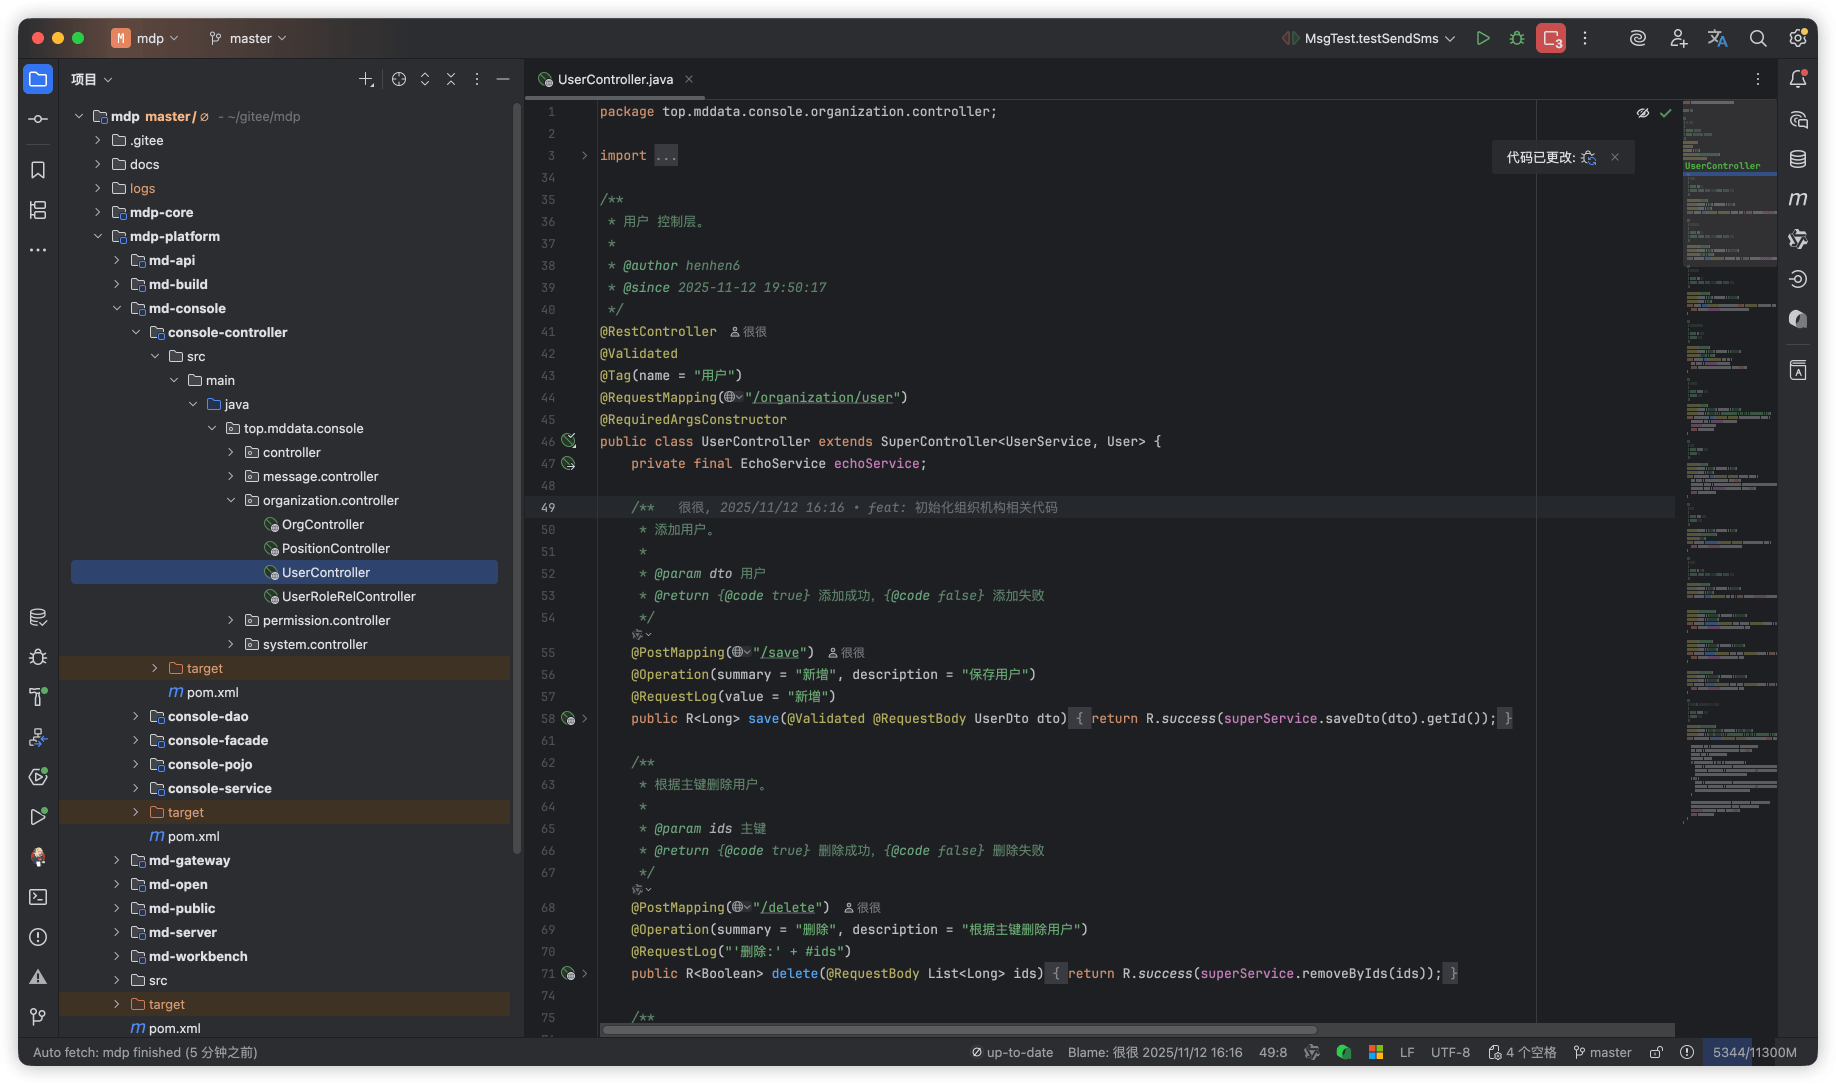
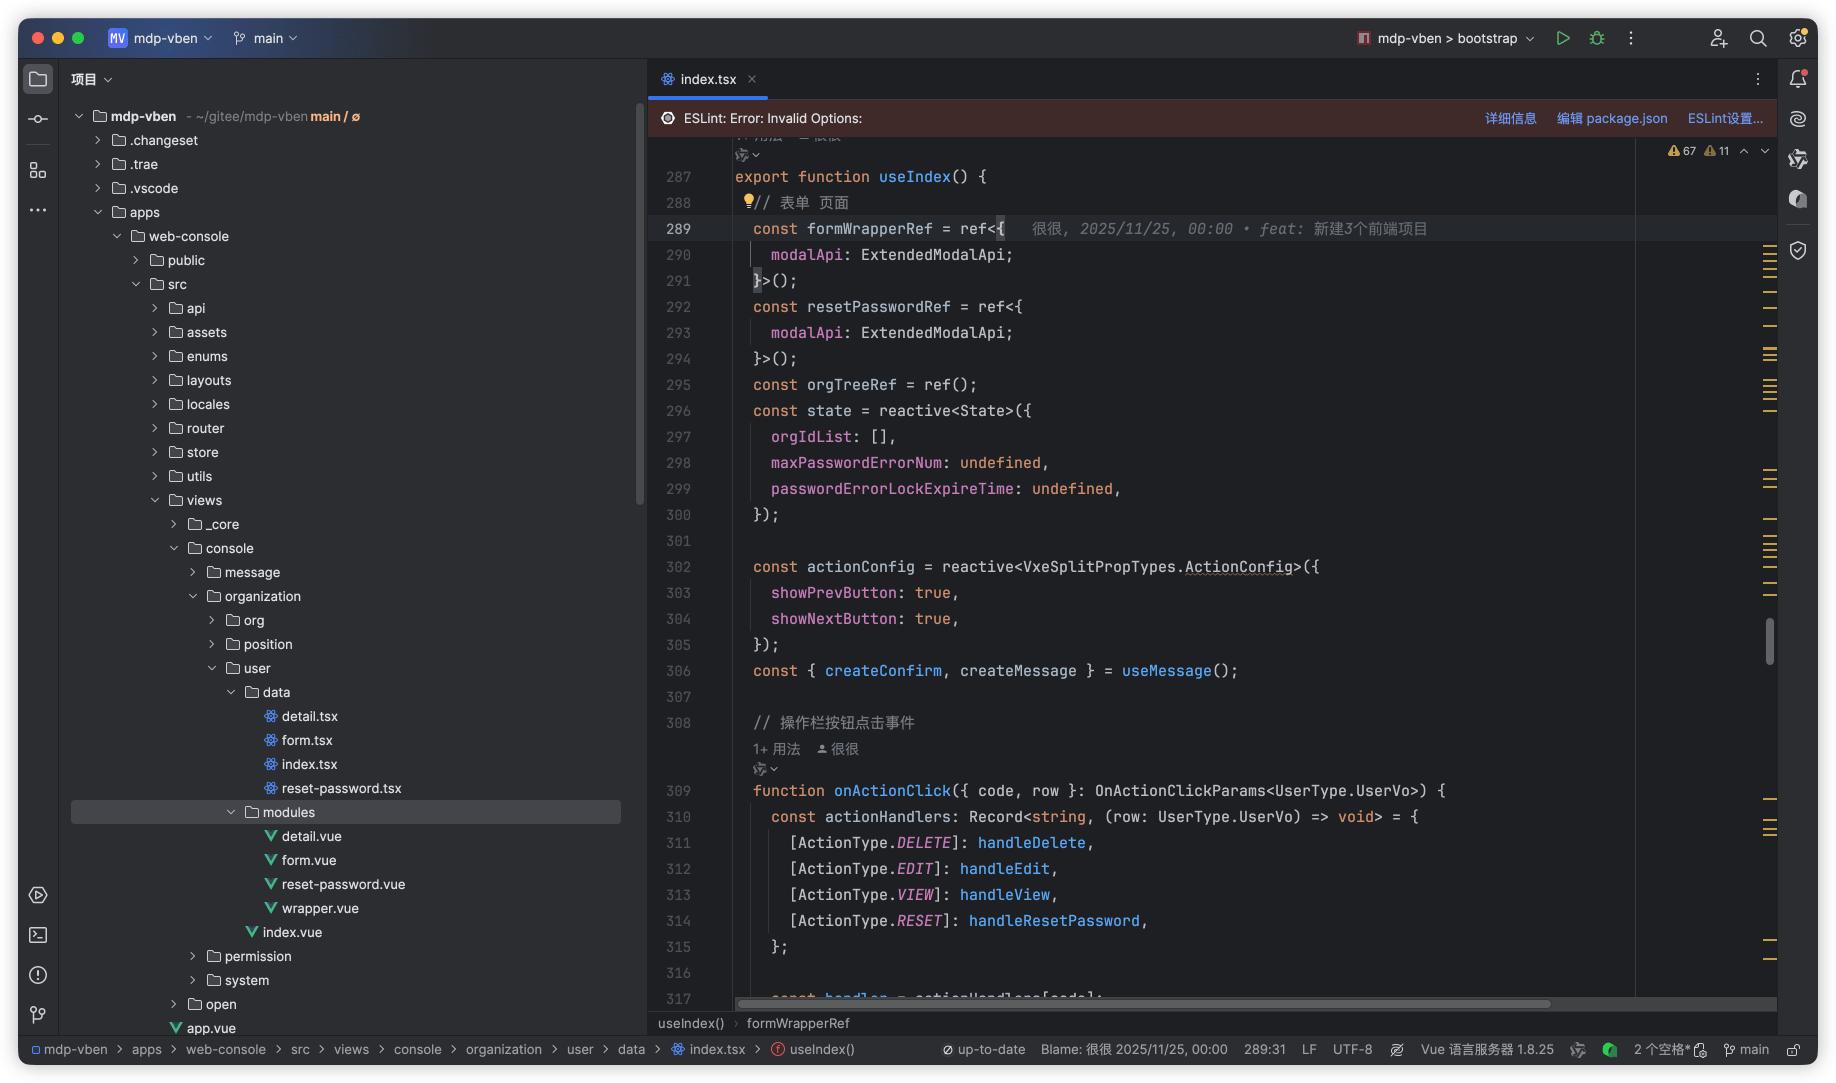
feat(mobile): 增加移动端小程序支持文档及导航项
- 新增“移动端启动”文档，详细说明小程序项目安装、配置与启动流程
- 更新文档中服务介绍和环境准备，补充移动端相关内容及依赖要求
- 在简介文档中增加移动端（微信小程序）应用介绍及链接
- 在侧边栏配置中添加“移动端启动”导航项，便于访问
- 修改前端页面，新增小程序介绍内容及调整部分图片显示样式
- 补充项目导入说明，添加移动端项目的克隆及安装提示
- 修正购买按钮链接文本，增强用户体验

diff --git a/src/.vuepress/public/html/showsideNew.html b/src/.vuepress/public/html/showsideNew.html
@@ -115,8 +115,9 @@
         <img src="/img/index/0.png" data-index="0" class="active show" />
         <img src="/img/index/1.png" data-index="1" />
         <img src="/img/index/2.png" data-index="2" />
-        <img src="/img/index/3.png" data-index="3" />
+        <img src="/img/index/3.png" data-index="3" style="width: 300px" />
         <img src="/img/index/4.png" data-index="4" />
+        <img src="/img/index/5.png" data-index="5" />
       </div>
     </div>
 
@@ -142,20 +143,27 @@
               开发者中心即开放平台，面向第三方与接入方的能力开放门户。提供子系统接入审批、SDK 下载、接口文档生成查阅服务，支持数据订阅拉取、接口调用管控。通过标准化集成方案，助力外部应用快速接入主数据体系，实现系统间免密互通与能力复用，降低多系统集成成本，构建企业开放应用生态。
           </div>
         </div>
-
         <div class="item" data-index="3">
+          <div class="title">小程序</div>
+          <div class="content">
+            基于 Java17、SpringBoot 制定后端编码规范，统一分层架构、接口设计、异常处理及数据操作标准。规范命名、注释、日志与安全校验规则，适配多租户、主数据管理等核心场景，保证代码健壮可扩展，提升服务稳定性与团队协作开发效率。
+          </div>
+        </div>
+
+        <div class="item" data-index="4">
           <div class="title">前端规范</div>
           <div class="content">
               基于 Vue3、Ant Design Vue 制定统一前端规范，明确编码、命名、目录结构及组件开发标准。规范页面渲染、接口请求、样式编写与 Git 提交规则，配套格式校验机制，保障多团队协作时代码风格统一、可读性与可维护性达标，适配中后台系统高效迭代与扩展需求。
           </div>
         </div>
 
-        <div class="item" data-index="4">
+        <div class="item" data-index="5">
           <div class="title">后端规范</div>
           <div class="content">
               基于 Java17、SpringBoot 制定后端编码规范，统一分层架构、接口设计、异常处理及数据操作标准。规范命名、注释、日志与安全校验规则，适配多租户、主数据管理等核心场景，保证代码健壮可扩展，提升服务稳定性与团队协作开发效率。
           </div>
         </div>
+
       </div>
     </div>
   </div>

diff --git a/src/.vuepress/sidebar.ts b/src/.vuepress/sidebar.ts
@@ -55,6 +55,7 @@ export default sidebar({
           ],
         },
         "前端启动",
+        "移动端启动",
       ],
     },
     {

diff --git a/src/doc/start/移动端启动.md b/src/doc/start/移动端启动.md
@@ -1,0 +1,110 @@
+---
+title: 移动端启动
+index: false
+category:
+  - 项目启动
+tag:
+  - 项目启动
+  - 移动端启动
+---
+
+移动端工程 `mdp-app` 是 MDP 的**移动端统一门户**（与工作台同一用户体系的小程序端），基于 [unibest](https://unibest.tech)（uniapp + Vue3 + TypeScript + Vite）构建，当前面向**微信小程序**（uniapp 脚本同时保留了支付宝/百度/抖音等其他小程序与 App、H5 的编译能力）。
+
+- 仓库地址：https://gitee.com/henhen6/mdp-app
+- UI 组件库：wot-ui；请求库：alova；状态管理：Pinia
+
+## 一、功能清单
+
+| 模块 | 功能 | 是否需要登录 |
+| ---- | ---- | :--: |
+| 首页 | 平台介绍 | 否 |
+| 工作台 | 我的应用宫格展示 | 是 |
+| 消息中心 | 站内通知分类查看（待办/公告/预警）、富文本渲染、已读标记 | 是 |
+| 我的 | 个人信息展示、资料编辑（姓名/头像/手机号）、退出登录 | 是 |
+
+登录走**微信小程序登录**：小程序端 `wx.login` 拿 code，后端（boot-server）用 `wx.miniapp.appid/secret` 换 openid 完成登录，与 Web 端共享同一套 sa-token 会话体系。
+
+## 二、环境要求
+
+| 项 | 要求 | 依据 |
+| ---- | ---- | ---- |
+| Node | ≥ 20 | mdp-app README |
+| pnpm | ≥ 9（`preinstall` 挂了 `only-allow pnpm`） | mdp-app `package.json` |
+| 微信开发者工具 | 最新稳定版 | 小程序运行/调试必需 |
+| 后端 | 本地启动 boot-server（单体版即可），见[单体版启动](backend/单体版启动.md) | 接口来源 |
+
+## 三、安装与配置
+
+```shell
+git clone https://gitee.com/henhen6/mdp-app.git
+cd mdp-app
+pnpm install
+```
+
+配置文件位于 `env/.env`：
+
+| 配置项 | 说明 |
+| ---- | ---- |
+| `VITE_SERVER_BASEURL` | 后端地址，本地开发填 boot-server 地址，如 `http://localhost:23455` |
+| `VITE_WX_APPID` | 微信小程序 AppID（**需与后端 `wx.miniapp.appid` 一致**） |
+| `VITE_UNI_APPID` | uni-app 应用标识（DCloud 后台申请） |
+
+后端需同步配置（mdp 仓库 `md-server/boot-server/src/main/resources/application.yml`）：
+
+```yaml
+wx:
+  miniapp:
+    appid: 小程序AppID        # 占位符，替换为实际值
+    secret: 小程序AppSecret   # 占位符，替换为实际值
+```
+
+## 四、启动与调试
+
+```shell
+# 微信小程序（开发）
+pnpm dev:mp
+
+# 其他模式
+pnpm dev:mp:test     # test 环境配置
+pnpm dev:mp:prod     # production 环境配置
+```
+
+启动后用**微信开发者工具**导入 `dist/dev/mp-weixin` 目录预览调试。
+
+::: warning 本地联调两个坑
+
+1. 微信开发者工具 → 详情 → 本地设置 → 勾选「**不校验合法域名…**」，否则小程序会拦截 `http://localhost` 请求；
+2. 修改 `pages.config.ts`、`src/tabbar/config.ts`、`env/.env` 后需要**重启** `pnpm dev:mp` 才生效。
+
+:::
+
+## 五、打包发布
+
+```shell
+pnpm build:mp          # 微信小程序，产物在 dist/build/mp-weixin
+pnpm upload:mp         # 调用脚本上传微信后台（scripts/upload-weixin.js）
+```
+
+其他平台（按需）：`pnpm build:h5`、`pnpm build:app`、`pnpm build:mp-alipay` 等，完整脚本见仓库 `package.json`。
+
+## 六、项目结构
+
+```
+src/
+├── api/            # 接口层（login/notice/app/profile）
+├── pages/          # 页面（index 首页、workbench 工作台、message 消息、me 我的、auth 登录）
+├── store/          # Pinia（token、user）
+├── http/           # 请求封装（拦截器、错误处理、401 刷新队列）
+├── router/         # 路由拦截（登录黑名单策略）
+├── hooks/          # 组合式函数（useRequireLogin 冷启动登录校验）
+├── tabbar/         # 自定义 tabbar（首页/工作台/消息/我的）
+└── static/         # 静态资源
+```
+
+## 七、常用命令
+
+```shell
+pnpm test:run       # 单元测试（vitest）
+pnpm type-check     # 类型检查（vue-tsc）
+pnpm lint           # 代码规范检查（pnpm lint:fix 自动修复）
+```

diff --git a/src/doc/简介.md b/src/doc/简介.md
@@ -36,7 +36,7 @@ tag:
 
 目前mdp内置了3个应用，分别是工作台，控制台，开发者平台。
 
-MDP 主数据平台内置**工作台、管理控制台、开发者平台**三套独立应用，角色权限分级隔离，分别适配普通用户、系统管理员、第三方开发者三类使用场景。
+MDP 主数据平台内置**工作台、管理控制台、开发者平台**三套独立 Web 应用与一套**移动端**（微信小程序），角色权限分级隔离，分别适配普通用户、系统管理员、第三方开发者三类使用场景。
 
 ![微服务架构](/img/doc/mdp-项目组成.drawio.png)
 
@@ -46,6 +46,7 @@ MDP 主数据平台内置**工作台、管理控制台、开发者平台**三套
 | [工作台](https://workbench.mddata.top) | [md-workbench](https://gitee.com/henhen6/mddata/tree/master/mdp-platform/md-workbench)，简称mdw | [web-workbench](https://gitee.com/henhen6/mdp-web-vben/tree/main/apps/web-workbench) | 又名**用户中心**。面向普通终端用户使用。 |
 | [控制台](https://console.mddata.top) | [md-console](https://gitee.com/henhen6/mddata/tree/master/mdp-platform/md-console)，简称mdc | web-console   | 又名**后台管理**，面向管理员，负责权限配置、应用审核、主数据管控、全局系统运维。 |
 | [开发者平台](https://open.mddata.top) | [md-open](https://gitee.com/henhen6/mddata/tree/master/mdp-platform/md-open)，简称mdo | web-open      | 又名**开放平台**，用于第三方应用接入、接口申请调试、在线文档查看、跨系统接口对接。 |
+| 移动端（微信小程序） | 复用工作台/单体后端接口 | [mdp-app](https://gitee.com/henhen6/mdp-app) | 用户的统一门户（小程序端）：我的应用、消息中心、个人资料。 |
 
 ### 演示环境
 
@@ -65,9 +66,7 @@ MDP 主数据平台内置**工作台、管理控制台、开发者平台**三套
 | Java后端 | [mdp-apps](https://gitee.com/henhen6/mddata/tree/master/mdp-apps) | 后端业务代码，支持单体架构和微服务架构 |
 | SDK      | [mdp-sdk](https://gitee.com/henhen6/mddata/tree/master/mdp-sdk) | 提供给第三方调用的SDK                  |
 | Web端    | [mdp-web-vben](https://github.com/henhen6/mdp-web-vben)      | 基于vue-admin-vben 5.x开发。           |
-| App端    | mdp-app                                                      | 敬请期待...                            |
-
-> 注意：App目前尚未开发
+| App端    | [mdp-app](https://gitee.com/henhen6/mdp-app)                 | 基于 unibest（uniapp + Vue3 + TS），当前面向微信小程序，见[移动端启动](start/移动端启动.md)。 |
 
 ## 技术简介
 

diff --git a/src/compare.snippet.md b/src/compare.snippet.md
@@ -47,12 +47,13 @@
 - [x] 开源版所有功能
 - [x] 后端框架（开发者中心）全部源码，面向第三方与接入方的能力开放门户
 - [x] 前端框架（用户中心、管理中心、开发者中心）全部源码
+- [x] 小程序端源码（基于unibest开发）
 - [x] 主数据维护、广播
 - [x] 接口、数据、字段权限精细化控制
 - [x] 支持商用，不限项目数量、域名数量、无license、不含加密jar。
 - [x] 微信互助群
 
-<button class="buyBtn" onclick="window.open('/buy/')">购买</button>
+<button class="buyBtn" onclick="window.open('/buy/立即购买')">购买</button>
 </div>
 </div>
 

diff --git a/src/doc/start/环境准备.md b/src/doc/start/环境准备.md
@@ -31,4 +31,12 @@ tag:
 
 - pnpm: >= 11.0.0（版本以仓库 `package.json` 的 `engines` 与 `packageManager` 字段为准，使用核心包管理器 corepack 可自动对齐）
 
+## 移动端工程（可选）
+
+仅开发移动端（微信小程序）时需要，详见[移动端启动](移动端启动.md)。
+
+- Node: >= 20
+- pnpm: >= 9
+- 微信开发者工具（最新稳定版）
+
   

diff --git a/src/doc/start/服务介绍.md b/src/doc/start/服务介绍.md
@@ -317,6 +317,8 @@ md-console/
 
 ::::
 
+> 除三个 Web 端外，平台还有**移动端** `mdp-app`（uniapp 微信小程序）：用户的移动端统一门户，无独立后端，本地开发对接 boot-server（23455）。安装与启动见[移动端启动](移动端启动.md)。
+
 ### 微服务架构启动
 
 ::: tabs#profiles微服务

diff --git a/src/doc/start/项目导入.md b/src/doc/start/项目导入.md
@@ -80,6 +80,14 @@ tag:
    git clone https://gitee.com/henhen6/mdp-web-vben.git
    ```
 
+   移动端（微信小程序，可选）：
+
+   ```shell
+   git clone https://gitee.com/henhen6/mdp-app.git
+   ```
+
+   > 移动端的安装、配置与启动见[移动端启动](移动端启动.md)。
+
 3. 安装依赖
 
    ```shell

diff --git a/src/README.md b/src/README.md
@@ -35,7 +35,7 @@ features:
 
   - title: 丰富的功能
     icon: code-box-fill
-    details: 单点登录中心、开放平台、管理后台。
+    details: 单点登录中心、开放平台、管理后台。 WEB端、小程序端 多端支持。
     
 
 copyright: false
